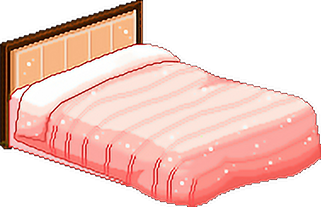
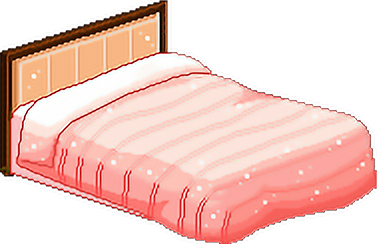
Scaled everything up again.  I think this is a good final size.

diff --git a/index.js b/index.js
@@ -414,13 +414,13 @@ window.addEventListener('load', function(){
   ];
     
   //* SET LOCATION
-  let nftName = "Mumbai";
+  let nftName = "Tokyo";
 
   //# CANVAS
   const canvas = document.getElementById("Canvas");
   const ctx = canvas.getContext("2d");
-  canvas.width = 800;
-  canvas.height = 500;
+  canvas.width = 1000;
+  canvas.height = 600;
   
   //# VARIABLES
   let currentHour;
@@ -439,6 +439,7 @@ window.addEventListener('load', function(){
   let tableCollided;
   let xv;
   let yv;
+  //*variable below must be set
   let lastTime = 0;
   let weatherTimer = 0;
   let weatherInterval = 300000;
@@ -482,14 +483,15 @@ window.addEventListener('load', function(){
 
   class Player {
     constructor(){
-      this.width = 244;
-      this.height = 271;
+      this.width = 276;
+      this.height = 305;
+      this.groundHeight = (canvas.height - this.height) - 25;
       this.x = Math.floor(Math.random() * 300) + 100;
-      this.y = 400;
+      this.y = this.groundHeight;
       this.image = document.querySelector(".player");
       this.speed = 0;
       this.vy = 0;
-      this.weight = 0.15;
+      this.weight = 0.12;
     };
     draw(context){
       context.drawImage(this.image, this.x, this.y);
@@ -504,21 +506,21 @@ window.addEventListener('load', function(){
       } else {
           this.speed = 0;
       }
-      //horizontal movement
+      //*horizontal movement
       this.x += this.speed;
       if (this.x < 0) this.x = 0;
       else if (this.x > canvas.width - this.width) this.x = canvas.width - this.width;
-      //vertical movement
+      //*vertical movement
       this.y += this.vy;
       if (!this.onGround()){
           this.vy += this.weight;
       } else {
           this.vy = 0;
       }
-      if (this.y > 210) this.y = 210;
+      if (this.y > this.groundHeight) this.y = this.groundHeight;
     }
     onGround(){
-      return this.y >= 210;
+      return this.y >= this.groundHeight;
     }
   };
 
@@ -526,8 +528,8 @@ window.addEventListener('load', function(){
     constructor(){
       canvas.width = canvas.width;
       canvas.height = canvas.height;
-      this.width = 321;
-      this.height = 207;
+      this.width = 377;
+      this.height = 247;
       this.x = 0;
       this.y = (canvas.height - this.height) - 25;
       this.image = document.querySelector(".bed");
@@ -539,8 +541,8 @@ window.addEventListener('load', function(){
 
   class Table {
     constructor(){
-      this.width = 223;
-      this.height = 140;
+      this.width = 312;
+      this.height = 190;
       this.x = canvas.width - this.width;
       this.y = (canvas.height - this.height) - 25;
       this.image = document.querySelector(".food");
@@ -554,8 +556,8 @@ window.addEventListener('load', function(){
     constructor(){
       this.width = 106;
       this.height = 93;
-      this.x = 650;
-      this.y = 285;
+      this.x = (canvas.width - this.width) - 40;
+      this.y = (canvas.height - this.height) - 163;
       this.image = document.querySelector(".foodToEat");
     }
     draw(context){
@@ -565,8 +567,8 @@ window.addEventListener('load', function(){
 
   class Floor {
     constructor(){
-      this.width = 800;
-      this.height = 129;
+      this.width = 1000;
+      this.height = 116;
       this.x = 0;
       this.y = canvas.height - this.height;
       this.image = document.querySelector(".floor");
@@ -578,10 +580,10 @@ window.addEventListener('load', function(){
 
   class Wall {
     constructor(){
-      this.width = 800;
-      this.height = 434;
+      this.width = 1000;
+      this.height = 484;
       this.x = 0;
-      this.y = -15;
+      this.y = 0;
       this.image = document.querySelector(".wall");
     }
     draw(context){
@@ -591,10 +593,10 @@ window.addEventListener('load', function(){
 
   class Scenery {
     constructor(){
-      this.width = 286;
-      this.height = 359;
-      this.x = 380;
-      this.y = 0;
+      this.width = 360;
+      this.height = 333;
+      this.x = 470;
+      this.y = 95;
       this.image = document.querySelector(".scenery");
     }
     draw(context){
@@ -604,10 +606,10 @@ window.addEventListener('load', function(){
 
   class Clock {
     constructor(){
-      this.width = 254;
-      this.height = 49;
-      this.x = 390;
-      this.y = 9;
+      this.width = 314;
+      this.height = 61;
+      this.x = 490;
+      this.y = 30;
       this.image = document.querySelector(".clock");
     }
     draw(context){
@@ -658,18 +660,18 @@ window.addEventListener('load', function(){
 
       context.drawImage(this.image, this.x, this.y, this.width, this.height);
       ctx.fillStyle = "#FFAC12";
-      ctx.font = "30px Consolas";
+      ctx.font = "35px Consolas";
       ctx.strokeStyle = "black";
       ctx.lineWidth = 3;
-      ctx.strokeText(currentTime, 452, 43);
-      ctx.fillText(currentTime, 451.5, 43);
+      ctx.strokeText(currentTime, 565, 72);
+      ctx.fillText(currentTime, 565, 72);
     }
   };
 
   class Snowflake {
     //NEED TO SPLICE OUT OF ARRAY INSTEAD OF REUSING PARTICLES TO END CLEANLY
     constructor(){
-      this.x = Math.random() * 289 + 375;
+      this.x = Math.random() * 365 + 470;
       this.y = Math.random() * canvas.height;
       this.size = Math.random() * 4 + 0.5;
       this.speed = Math.random() * 0.5 + 0.2;
@@ -689,7 +691,7 @@ window.addEventListener('load', function(){
 
   class Raindrop {
     constructor(){
-      this.x = Math.random() * 289 + 375;
+      this.x = Math.random() * 365 + 470;
       this.y = Math.random() * canvas.height;
       this.size = Math.random() * 1.5 + 1;
       this.speed = Math.random() * 2 + 1.3;
@@ -719,16 +721,16 @@ window.addEventListener('load', function(){
       stars[i].x += 0.01;
       stars[i].y += 0.01;
 
-      if (stars[i].x < 377 - stars[i].r) {
-        stars[i].x = 662 + stars[i].r;
-      } else if (stars[i].x > 662 + stars[i].r) {
-          stars[i].x = 377 - stars[i].r;
+      if (stars[i].x < 470 - stars[i].r) {
+        stars[i].x = 835 + stars[i].r;
+      } else if (stars[i].x > 835 + stars[i].r) {
+          stars[i].x = 470 - stars[i].r;
       }
 
-      if (stars[i].y < 0 - stars[i].r) {
-        stars[i].y = 330 + stars[i].r;
-      } else if (stars[i].y > 330 + stars[i].r) {
-        stars[i].y = 0 - stars[i].r;
+      if (stars[i].y < 95 - stars[i].r) {
+        stars[i].y = 410 + stars[i].r;
+      } else if (stars[i].y > 410 + stars[i].r) {
+        stars[i].y = 95 - stars[i].r;
       }
       }
     }
@@ -908,7 +910,7 @@ window.addEventListener('load', function(){
   //*handle collisions with the bed and table
   function handleCollisions() {
     //*bed collision
-    if (player.x <= 270) {
+    if (player.x <= 310) {
       bedCollided = true;
       // console.log("Bed collided.");
     } else {
@@ -916,7 +918,7 @@ window.addEventListener('load', function(){
     }
 
     //*table collision
-    if (player.x >= 410) {
+    if (player.x >= 526) {
       tableCollided = true;
       // console.log("Table collided.");
     } else {
@@ -953,8 +955,8 @@ window.addEventListener('load', function(){
       let speedMult = Math.random() * 1.5 + 0.5;
       stars[i] = {
           r: Math.random() * star.size * canvas.width / 2,
-          x: Math.floor(Math.random() * 289 + 375),
-          y: Math.floor(Math.random() * 330),
+          x: Math.floor(Math.random() * 365 + 470),
+          y: Math.floor(Math.random() * 315) + 95,
           xv: xv * speedMult,
           yv: yv * speedMult
       }
